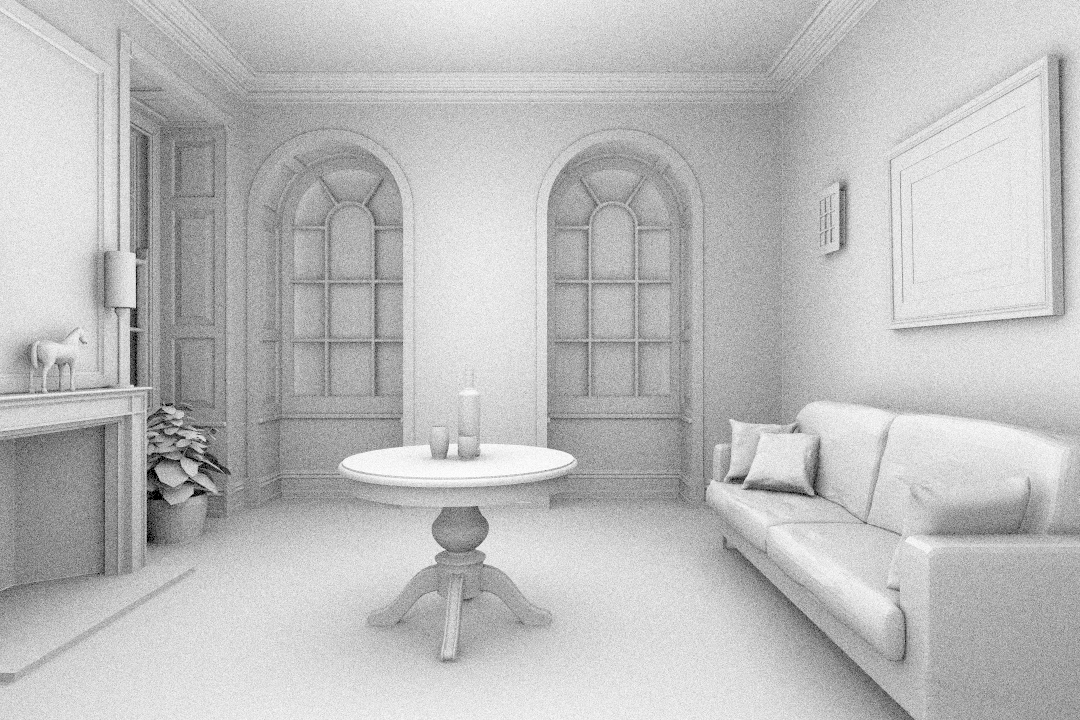
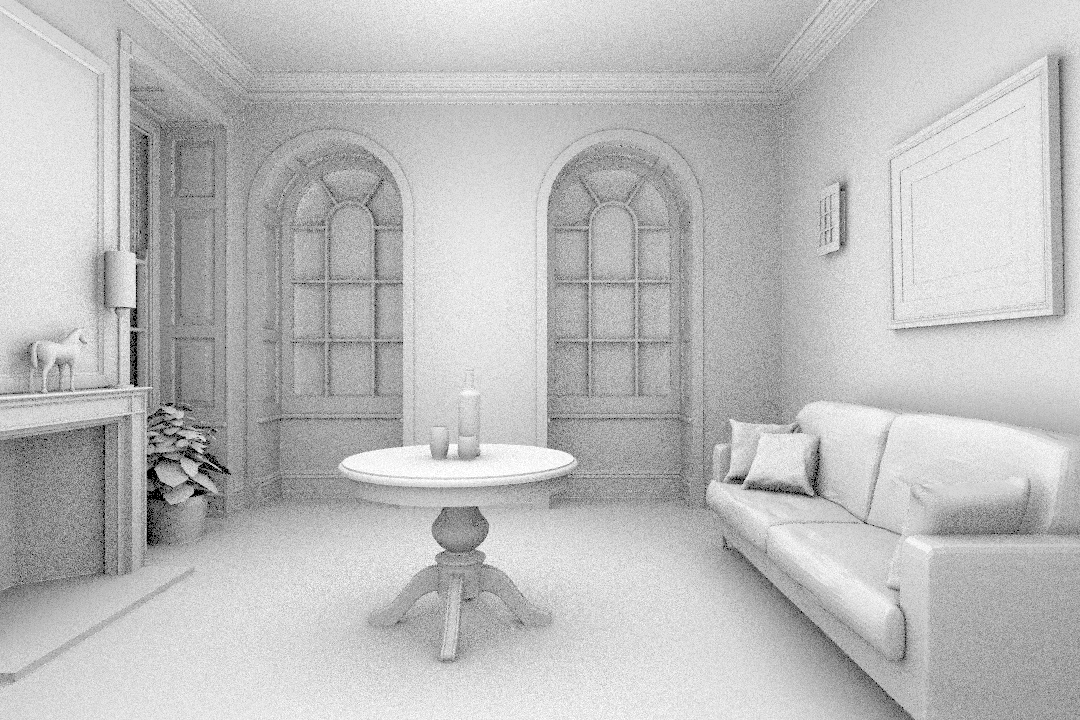
fix bug

diff --git a/src/core/export.cpp b/src/core/export.cpp
@@ -28,6 +28,7 @@
 #include "core/bsdfs/diffusebsdf.h"
 #include "core/integrators/rtao.h"
 #include "core/samplers/random-sampler.h"
+#include "samplers/sobol-sampler.h"
 #include <api/graph.h>
 
 namespace miyuki::core {
@@ -43,6 +44,7 @@ namespace miyuki::core {
         Register<DiffuseBSDF>();
         Register<RTAO>();
         Register<RandomSampler>();
+        Register<SobolSampler>();
     }
 
     void Finalize() {

diff --git a/src/api/sampler.h b/src/api/sampler.h
@@ -38,7 +38,8 @@ namespace miyuki::core {
         }
 
         virtual void startNextSample() = 0;
-        virtual std::shared_ptr<Sampler> clone() const = 0;
+
+        [[nodiscard]] virtual std::shared_ptr<Sampler> clone() const = 0;
     };
 }
 

diff --git a/src/core/samplers/sobol-sampler.h b/src/core/samplers/sobol-sampler.h
@@ -40,7 +40,7 @@ namespace miyuki::core {
 
         void startNextSample() override;
 
-        std::shared_ptr<Sampler> clone() const override;
+        [[nodiscard]] std::shared_ptr<Sampler> clone() const override;
     };
 }
 

diff --git a/src/core/samplers/sobol-sampler.cpp b/src/core/samplers/sobol-sampler.cpp
@@ -66,6 +66,7 @@ namespace miyuki::core {
     }
 
     void SobolSampler::startNextSample() {
+        dimension = 0;
         sample++;
     }
 }
